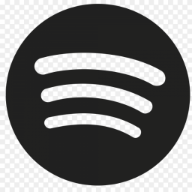
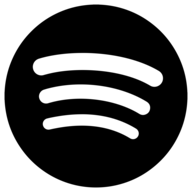
pwa update

diff --git a/src/pages/_app.tsx b/src/pages/_app.tsx
@@ -48,6 +48,11 @@ const MyApp: AppType = ({ Component, pageProps: { ...pageProps } }) => {
         <link rel='apple-touch-icon' href='/public/images/favicon-32x32.png' />
         <link
           rel='apple-touch-icon'
+          sizes='512x512'
+          href='/public/images/android-chrome-512x512.png'
+        />
+        <link
+          rel='apple-touch-icon'
           sizes='152x152'
           href='/public/images/touch-icon-ipad.png'
         />
